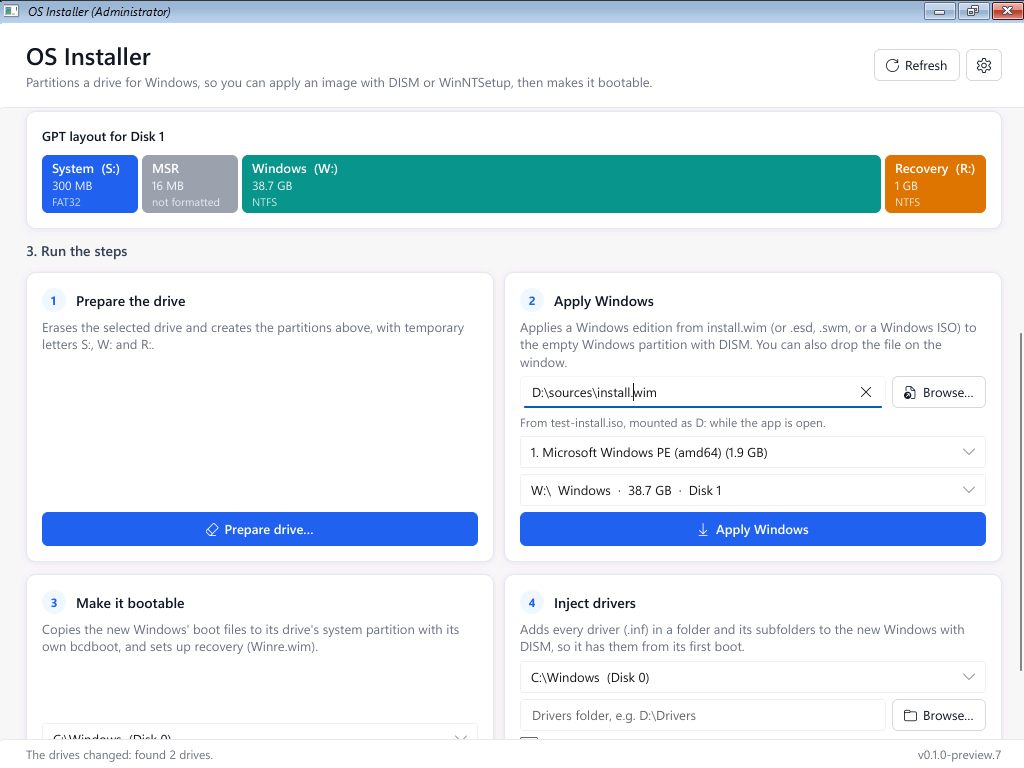
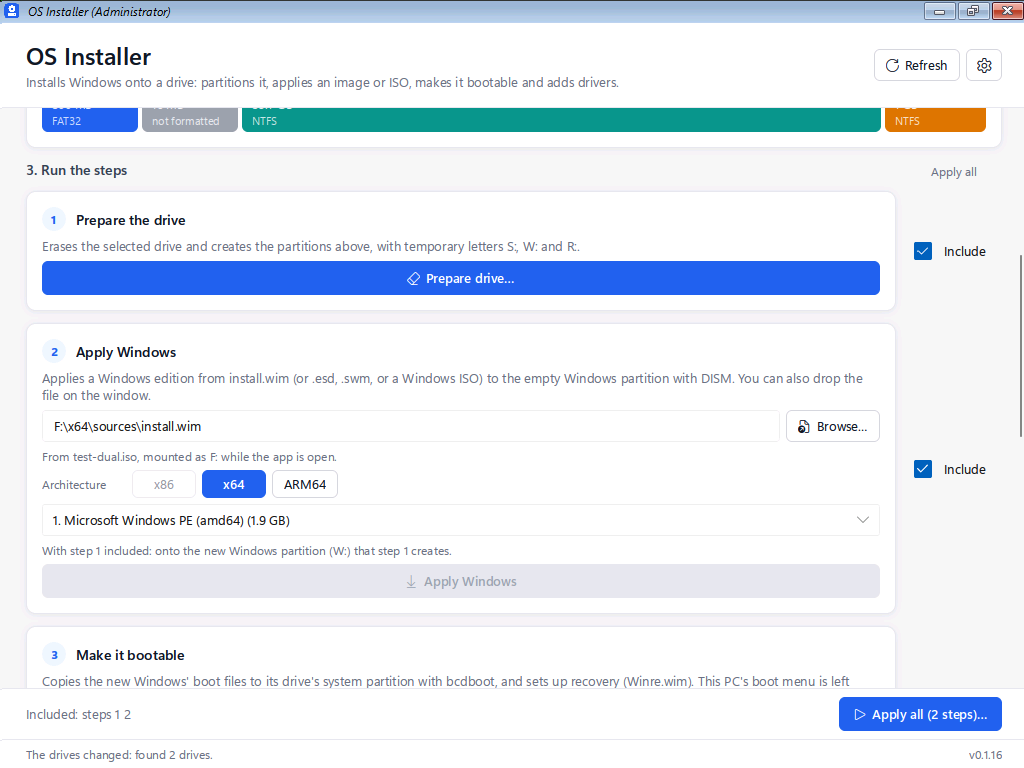
Screenshots for 0.1.16: one column of steps, Apply all, step 2 with an ISO, Settings

diff --git a/README.md b/README.md
@@ -6,7 +6,7 @@ A small Windows tool that installs Windows onto a drive the way deployment techn
 2. **Apply Windows.** Choose a Windows **ISO** (or its `install.wim` / `install.esd`) and an edition; OS Installer applies it to `W:\` with DISM. You can drop the ISO on the window. (WinNTSetup or your own DISM command work too.)
 3. **Make it bootable.** OS Installer copies the new Windows' boot files to the system partition with `bcdboot`, and sets up the recovery partition. The drive is meant for another PC, so it never adds a boot entry to the firmware of the PC it runs on.
 4. **Apply unattended answer file** (optional). OS Installer copies your `unattend.xml` into the new Windows, where Windows Setup reads it when the PC first starts, and applies its offlineServicing settings with DISM. It tells you if the file is for another architecture than the Windows.
-5. **Inject drivers** (optional). OS Installer adds every driver (`.inf`) in a folder and its subfolders to the new Windows with DISM, so it has them from its first boot, including the drivers inside downloads such as HP SoftPaqs (`sp101370.exe`) and `.zip`, `.7z`, `.cab` or `.rar` files. You can drop the folder, or a download, on the window.
+5. **Inject drivers** (optional). OS Installer adds every driver (`.inf`) in a folder and its subfolders to the new Windows with DISM, so it has them from its first boot, including the drivers inside downloads such as HP SoftPaqs (`sp101370.exe`), Lenovo's installers, `.msi` packages and `.zip`, `.7z`, `.cab` or `.rar` files. You can drop the folder, or a download, on the window.
 6. **Eject drives.** OS Installer detaches the Windows ISO it mounted and removes the drive letters of the drive it prepared, so it can be unplugged and put in its PC. The drive stays readable, so you can still inject drivers into it without replugging.
 
 The steps sit in one column with an *Include* checkbox beside each: **Apply all** runs the included ones one after another (prepare, apply, make bootable, …) with one click. It first points out anything missing, then shows what each step will do and what will be erased, and warns if the steps don't all use the same drive.
@@ -17,7 +17,7 @@ It is one small exe with a window and a command line, and it runs in full Window
 
 ![screenshot](docs/screenshot.png)
 
-> **It erases disks.** All four steps work, in Windows and WinPE, and drives it prepared and made bootable start with UEFI and with BIOS in testing. Preparing a drive deletes everything on it, so try it on a spare drive or in a virtual machine first, and please report how it goes on real PCs.
+> **It erases disks.** All the steps work, in Windows and WinPE, and drives it prepared and made bootable start with UEFI and with BIOS in testing. Preparing a drive deletes everything on it, so try it on a spare drive or in a virtual machine first, and please report how it goes on real PCs.
 
 Before anything is erased, OS Installer shows what is on the drive and what it will get, and asks:
 
@@ -25,7 +25,11 @@ Before anything is erased, OS Installer shows what is on the drive and what it w
 
 It will not prepare the drive Windows is running from, the drive OS Installer itself is on, write-protected drives, Storage Spaces drives or, in WinPE, the drive with WinPE or Windows Setup on it (usually the USB stick you started from). Preparing needs administrator rights.
 
-![the four steps, with Inject drivers](docs/drivers.png)
+![the steps, each with its Include checkbox, and Apply all](docs/drivers.png)
+
+Apply all says what it will do, and what it will erase, before it starts:
+
+![Apply all's summary](docs/apply-all.png)
 
 ## USB drives
 
